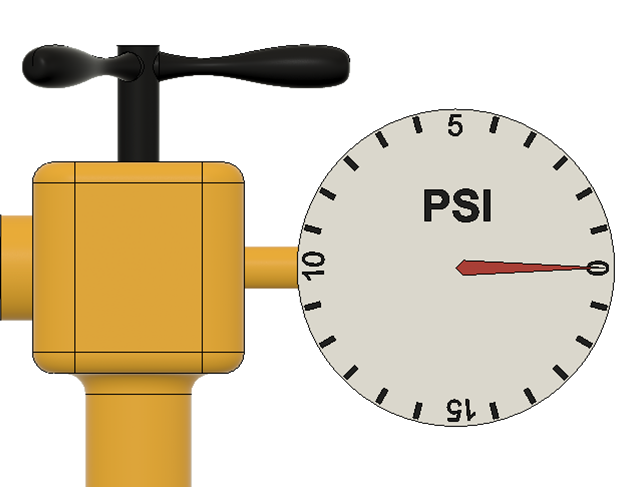
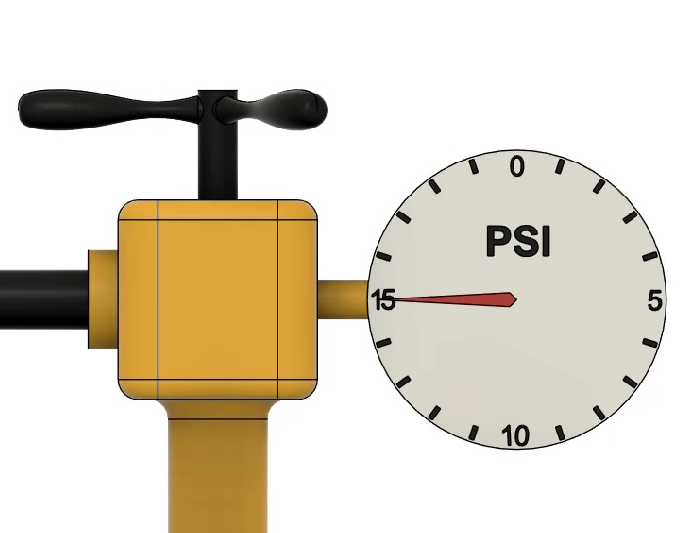
update

diff --git a/labs/exp6/print.css b/labs/exp6/print.css
@@ -1,67 +1,32 @@
+/* labs/exp7/print.css */
 @media print {
+    /* Remove browser headers and footers (date, URL, page numbers) */
     @page {
-        margin: 1cm;
-        size: landscape;
-        /* Optional: might help if table is very wide, but standard is usually portrait. Let's try to fit in portrait first, or allow auto. */
-    }
-
-    body * {
-        visibility: hidden;
-    }
-
-    .print-area,
-    .print-area * {
-        visibility: visible;
-    }
-
-    .print-area {
-        position: absolute;
-        left: 0;
-        top: 0;
-        width: 100%;
         margin: 0;
-        padding: 0;
+    }
+    
+    /* Add padding to body to compensate for removed margins */
+    body {
+        background: #fff;
+        padding: 20px;
+        margin: 0;
     }
 
-    /* specific fixes for table */
-    .print-area table {
-        width: 100% !important;
-        border-collapse: collapse;
-        font-size: 12px;
-        /* Reduce font size */
-        table-layout: fixed;
-        /* helps with sizing */
-    }
-
-    .print-area th,
-    .print-area td {
-        padding: 5px;
-        /* scale down padding */
-        word-wrap: break-word;
-    }
-
-    /* specific fixes for images in table */
-    .print-area img {
-        max-width: 100% !important;
-        /* ensure images don't overflow their cells */
-        height: auto !important;
-        width: auto !important;
-        /* Allow shrinking */
-        max-height: 150px;
-        /* Limit height */
-    }
-
-    .no-print {
+    h1, h2, .simulation-title {
         display: none !important;
     }
-
-    /* Hide navigation buttons and other UI elements */
-    #prev-btn,
-    #next-btn,
-    .step-item,
-    .sidebar,
-    .button-container,
-    #reset-btn {
+    
+    /* Hide "Back to Lab" button */
+    button[onclick*="simulation.html"],
+    .result-mode button[onclick*="Back to Lab"] {
+        display: none !important;
+    }
+    
+    /* Hide navigation buttons and other non-printable elements */
+    .result-mode .button-container,
+    .result-mode .step-indicator,
+    .result-mode .drag-instructions,
+    .no-print {
         display: none !important;
     }
 }

diff --git a/labs/exp6/sim-script.js b/labs/exp6/sim-script.js
@@ -328,13 +328,10 @@ document.addEventListener("DOMContentLoaded", function () {
         apparatusData.forEach(item => {
             apparatusHTML += `
             <div style="
-                width: 260px;
-                border: 1px solid #ddd;
-                border-radius: 8px;
-                padding: 12px;
-                text-align: center;
-                background: #fff;
-                box-shadow: 0 2px 6px rgba(0,0,0,0.08);
+                background:#f5f5f5;
+                border-radius:12px;
+                padding:15px;
+                text-align:center;
             ">
                 <div class="apparatus-img-box">
                     <img src="${item.img}" alt="${item.name}">
@@ -351,11 +348,10 @@ document.addEventListener("DOMContentLoaded", function () {
             <div class="step-indicator">Step 1 of ${totalSteps}</div>
 
             <div style="
-                display: flex;
-                flex-wrap: wrap;
-                gap: 20px;
-                justify-content: center;
-                margin-top: 20px;
+                display:grid;
+                grid-template-columns: repeat(3, 1fr);
+                gap:20px;
+                margin-top:20px;
             ">
                 ${apparatusHTML}
             </div>
